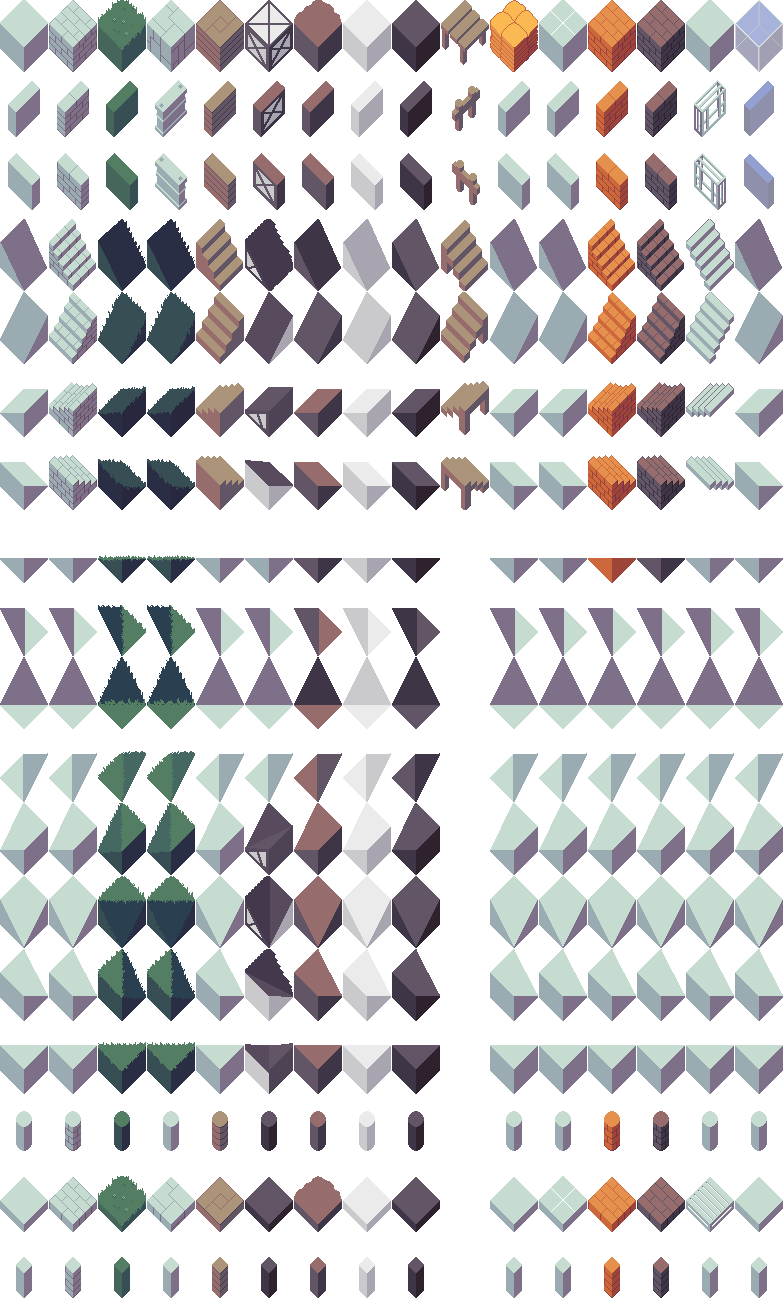
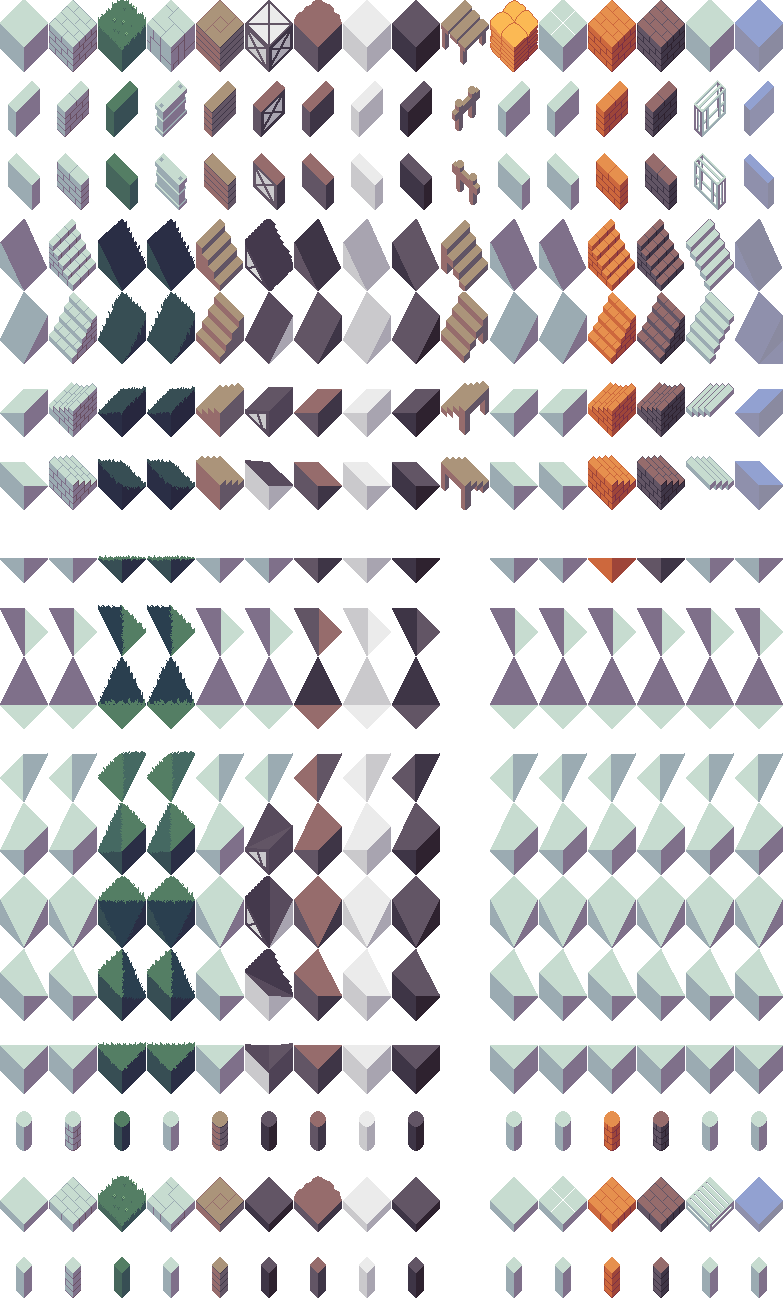
0.7.244

Changed region(s): [[0.9195, 0.1561, 1.0, 0.4059], [0.9195, 0.8743, 1.0, 0.9368], [0.9502, 0.0, 1.0, 0.0312]]

diff --git a/bleed-common/lib/src/node_type.dart b/bleed-common/lib/src/node_type.dart
@@ -142,6 +142,7 @@ class NodeType {
         Wooden_Plank,
         Bau_Haus,
         Scaffold,
+        Glass,
   ].contains(type);
 
   static bool supportsOrientationSlopeCornerInner(int type) => const [

diff --git a/bleed-server/lib/common/src/node_type.dart b/bleed-server/lib/common/src/node_type.dart
@@ -142,6 +142,7 @@ class NodeType {
         Wooden_Plank,
         Bau_Haus,
         Scaffold,
+        Glass,
   ].contains(type);
 
   static bool supportsOrientationSlopeCornerInner(int type) => const [
